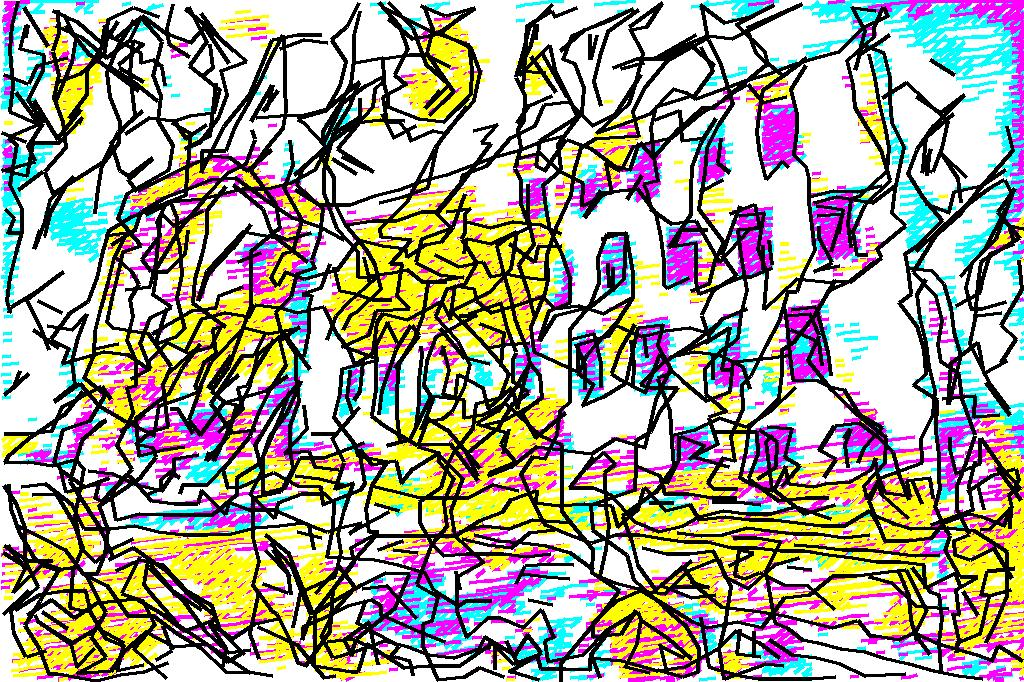
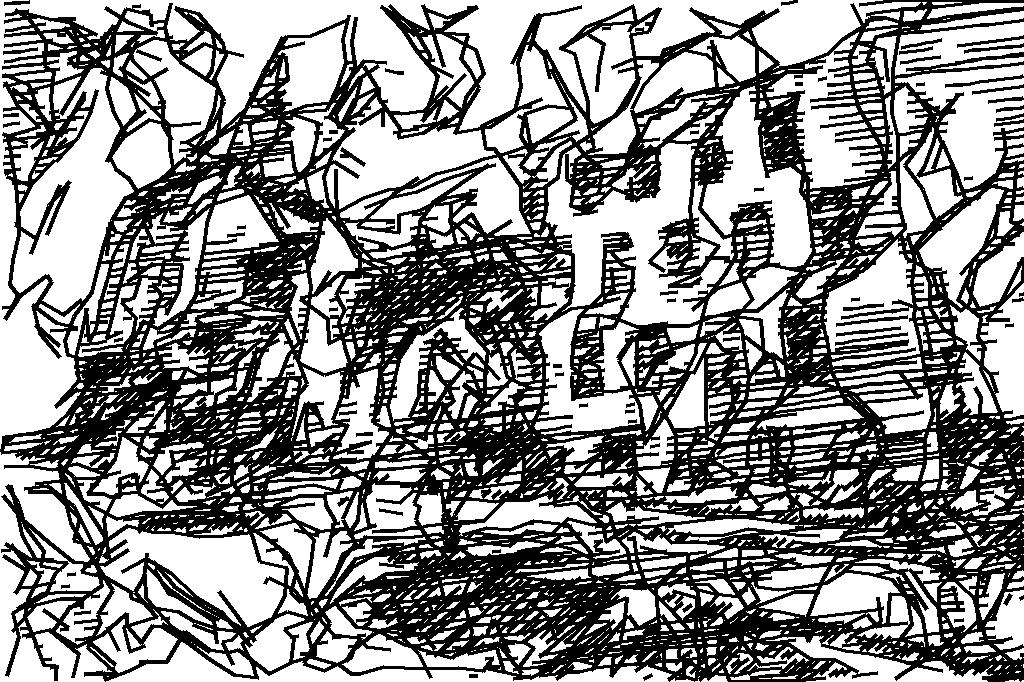
change json export

diff --git a/tools/visualize.py b/tools/visualize.py
@@ -80,7 +80,7 @@ def makesvg(lines):
     out += '</svg>'
     return out
 
-def save_to_json(lines, contour_simplify, hatch_size, path):
+def save_to_json(lines, contour_simplify, hatch_size, path, h, w):
     if not os.path.exists('./json/'):
         os.mkdir('json')
     
@@ -89,5 +89,11 @@ def save_to_json(lines, contour_simplify, hatch_size, path):
     if (type(lines) == list):
         lines = {'black': lines}
 
+    json_data = {
+        'width': w,
+        'height': h,
+        'lines': lines
+    }
+
     with open(f'json/{file_name}_cs{contour_simplify}_hs{hatch_size}.json', 'w') as fout:
-        json.dump(lines, fout) 
+        json.dump(json_data, fout) 

diff --git a/main.py b/main.py
@@ -10,8 +10,9 @@ if  __name__ == '__main__':
 
     linedraw.contour_simplify = contour_simplify
     linedraw.hatch_size = hatch_size
-    linedraw.color_type = 'cmyk'
+    linedraw.color_type = 'black'
     linedraw.save_bitmap = True
     linedraw.no_svg = True
+    linedraw.save_json = True
     #linedraw.export_path = f"output/{img_name}_cs{contour_simplify}_hs{hatch_size}_cmyk.svg"
     linedraw.sketch(f'images/{img_name}{img_format}')

diff --git a/linedraw.py b/linedraw.py
@@ -265,7 +265,7 @@ def sketch(path):
         save_svg(lines, export_path)
 
     if save_json:
-        save_to_json(lines, contour_simplify, hatch_size, path_to_img)
+        save_to_json(lines, contour_simplify, hatch_size, path_to_img, h=resolution, w=resolution*h//w)
 
     if save_bitmap:
         save_to_bitmap(lines, resolution, h, w, contour_simplify, hatch_size, path)
